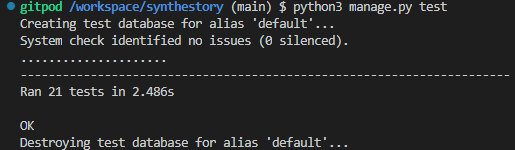
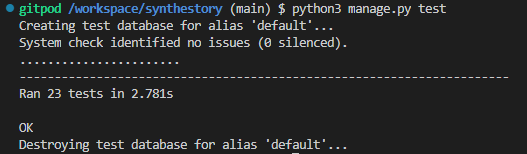
test: Add str method check to test_models and add coverage report

diff --git a/synthestoryapp/test_models.py b/synthestoryapp/test_models.py
@@ -36,6 +36,15 @@ class TestModels(TestCase):
         genre = models.Genre.objects.create()
         self.assertTrue(genre.genre_image == 'placeholder')
 
+    def test_title_is_returned_with_genre_str_method(self):
+        """
+        Function that tests the __str__ method
+        for Genre. Checks whether it
+        returns the correct string.
+        """
+        story_idea = models.Genre.objects.create(genre_title='Bob')
+        self.assertTrue(story_idea.__str__() == 'Bob')
+
     def test_title_is_returned_with_story_idea_str_method(self):
         """
         Function that tests the __str__ method

diff --git a/README.md b/README.md
@@ -273,7 +273,14 @@ Manual testing was carried out to ensure that SyntheStory worked correctly from 
 ### Automated Testing
 Automated testing was carried out using TestCase. This was used to ensure there were no 'behind the scenes' problems occurring. One problem that was highlighted was that the 403 error page was being given as a 200 response so the HttpForbidden method was used to make sure a 403 response was given when this appeared.
 
+Here is an image of the tests being carried out:
+
 <img src="media/README-images/automated-tests.png">
+
+#### Coverage
+A coverage report of automated testing was carried out. This shows the amount of coverage the automated testing dealt with. The automated tests were carried out to 93% coverage. The only part of the application that didn't get complete automated coverage was the views and was to do with post requests and deletion of story ideas which are more easily handled and verified through manually checking that they work.
+
+<img src="media/README-images/synthestory-coverage.png">
 
 ## Bugs
 
